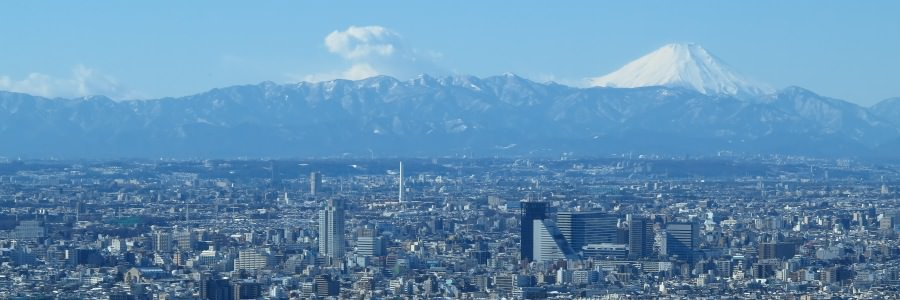
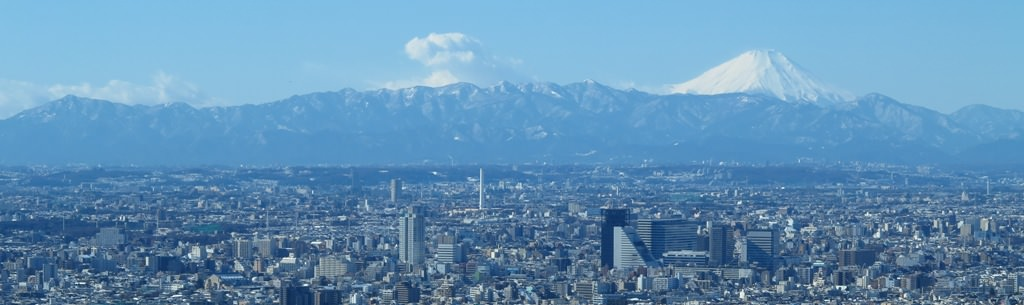
replace image

diff --git a/main.css b/main.css
@@ -43,7 +43,7 @@ header p {
 header p img {
 	width: 100%;
 	height: auto;
-	max-width: 900px;
+	max-width: 983px;
 }
 
 div#contens {
